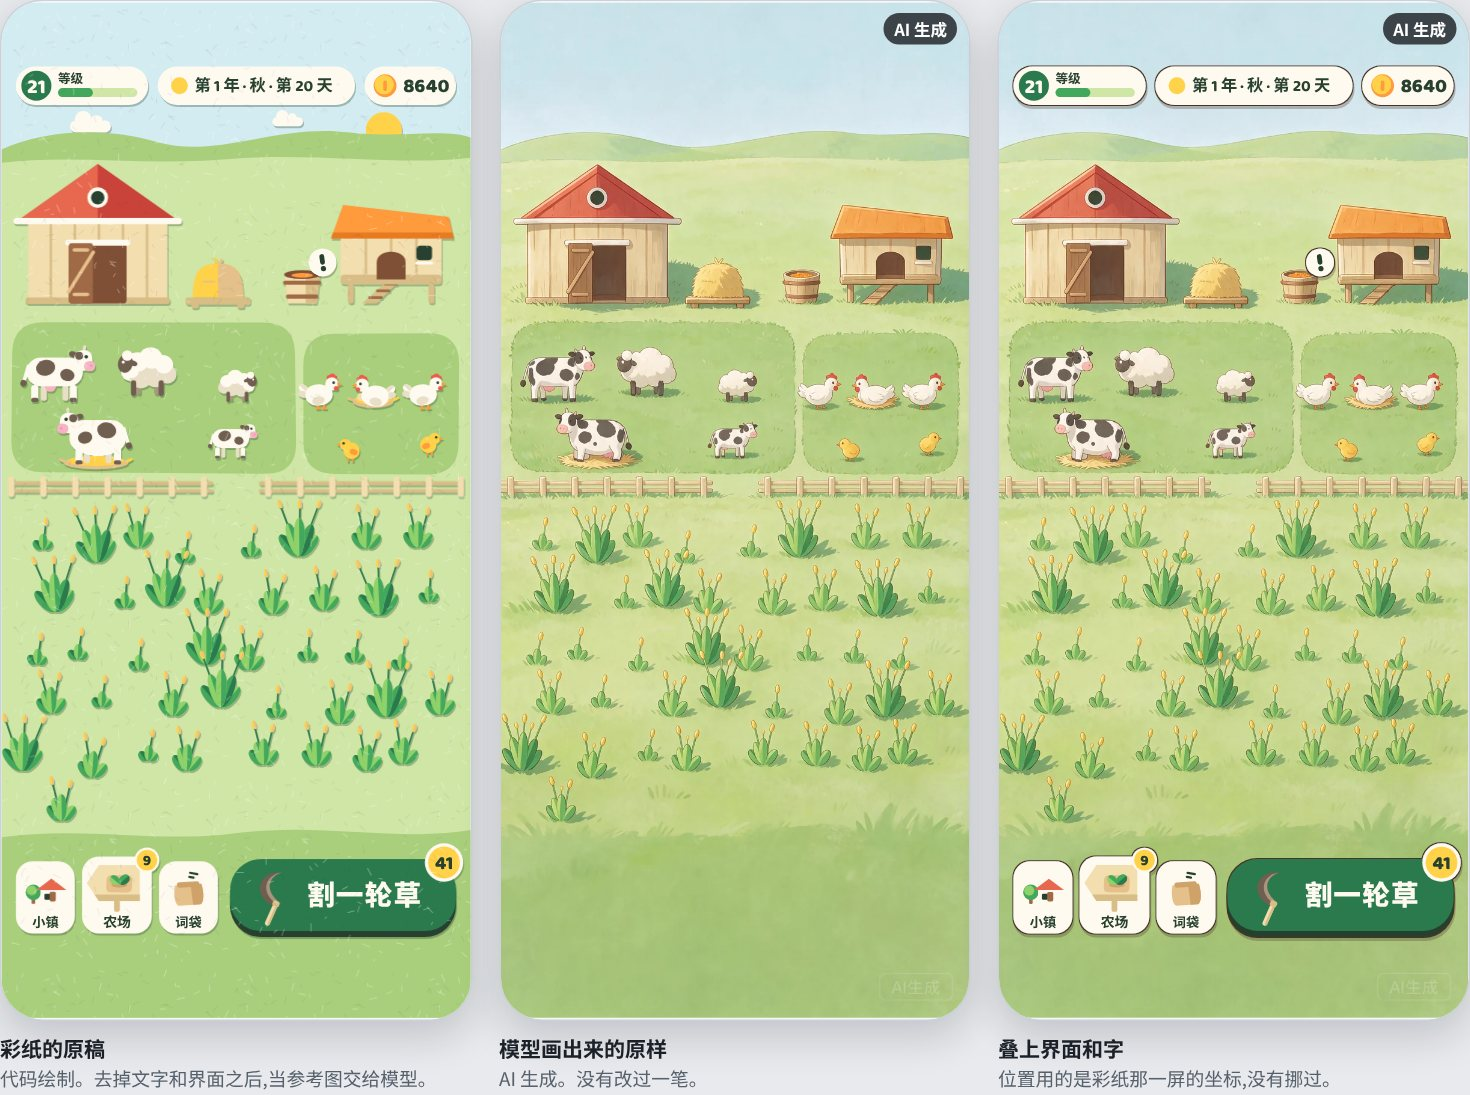
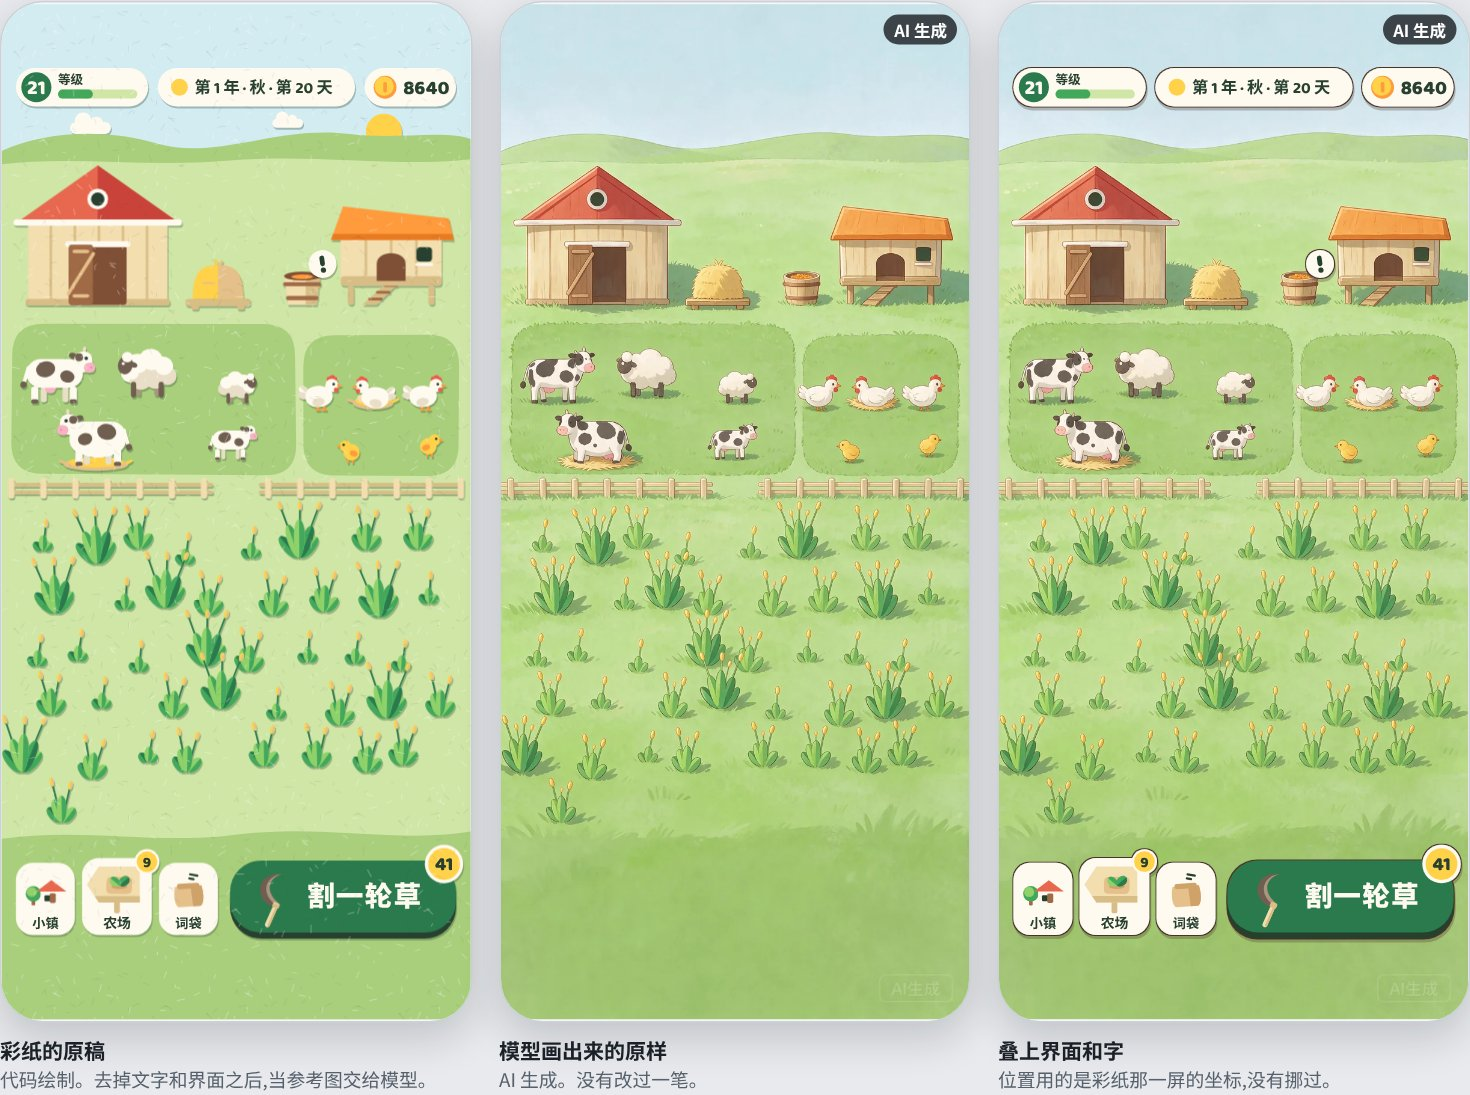
Pull the farm and pasture ground color back to the paper green
The owner found the ground on the farm and pasture still slightly
yellow next to the paper screens. Measured, the paper grass hue is 82
to 87 degrees and the redrawn one was 70 to 79.

This is corrected in place rather than by regenerating, which would
risk plot states again: regreen.py pulls only the yellowish grass
colors toward the paper hue and leaves dry soil, hay, grass ears,
wilted leaves and dark foliage alone. The ground now measures 82 to
86 degrees. The README and page tables carry the new figures.

Claude-Session: https://claude.ai/code/session_01KLGgNjxFgtRsY37w3UzLNc

diff --git a/docs/design/cel-screens/index.html b/docs/design/cel-screens/index.html
@@ -84,23 +84,26 @@
         <table class="cmp wide">
           <thead><tr><th></th><th>彩纸</th><th>第一版</th><th>现在</th></tr></thead>
           <tbody>
-            <tr><td>草地</td><td><code>#a9cf7c</code></td><td><code>#9fb756</code></td><td><code>#b8ce87</code></td></tr>
+            <tr><td>草地(底部那一条)</td><td><code>#a9cf7c</code></td><td><code>#9fb756</code></td><td><code>#adce7e</code></td></tr>
+            <tr><td>草地(地块之间)</td><td><code>#cfe6a6</code></td><td><code>#c0cd6c</code></td><td><code>#c6e09e</code></td></tr>
             <tr><td>天</td><td><code>#dfeff1</code></td><td><code>#c3e3f1</code></td><td><code>#dbebf2</code></td></tr>
             <tr><td>干土</td><td><code>#e7c18c</code></td><td><code>#e8bc79</code></td><td><code>#eac590</code></td></tr>
             <tr><td>湿土</td><td><code>#a36d4a</code></td><td><code>#7c4e31</code></td><td><code>#a5704d</code></td></tr>
             <tr><td>干土和湿土的明暗对比</td><td>2.56</td><td>3.98</td><td>2.56</td></tr>
-            <tr><td>湿土和草地的明暗对比</td><td>2.46</td><td>3.14</td><td>2.43</td></tr>
-            <tr><td>整屏的平均明度(0 到 255)</td><td>183</td><td>157</td><td>185</td></tr>
-            <tr><td>整屏明暗的起伏(标准差)</td><td>40</td><td>48</td><td>40</td></tr>
+            <tr><td>湿土和草地的明暗对比</td><td>2.46</td><td>3.14</td><td>2.37</td></tr>
+            <tr><td>整屏的平均明度(0 到 255)</td><td>183</td><td>157</td><td>183</td></tr>
+            <tr><td>整屏明暗的起伏(标准差)</td><td>40</td><td>48</td><td>39</td></tr>
           </tbody>
         </table>
       </div>
-      <p class="fine">颜色是在每张图的同一块位置取的平均值:草地取底部的一条,土取每块地左上角没有作物的一小块、按干土湿土分别平均。牧场的平均明度是彩纸 201、第一版 159、现在 195;矿洞是 170、140、157。</p>
+      <p class="fine">颜色是在每张图的同一块位置取的平均值:草地取底部的一条,土取每块地左上角没有作物的一小块、按干土湿土分别平均。牧场的平均明度是彩纸 201、第一版 159、现在 192;矿洞是 170、140、157。</p>
       <ul class="notes">
         <li><b>怎么改的:</b>在提示词里写明"色调和参考图一致,浅、亮、柔和、对比度低",并把彩纸色板里的色值一个个写进去(草地、天、干土、湿土、空地、叶子)。牧场和矿洞各重出一张就对了。</li>
         <li><b>农场出了三张,每张都有画错的地方。</b>第一张把一块湿土画成了干土,把一株没结棒的玉米画成了结了棒的;第二张整片地往下挪了,界面对不上;第三张错了三块。
           第一版(色调偏深的那张)干湿 30 块全对、作物只错了一株,现在看是碰巧。</li>
         <li><b>现在这张农场是拼的:</b>用第一张,画错的那两块地从第一版里取同一块补上(第一版先整体调了色)。页面上其余的图没有动过。</li>
+        <li><b>底色又单独调过一次。</b>负责人看过并排的图之后说农场和牧场的底色还是偏黄。量了一下:彩纸草地的色相是 82 到 87 度,重画出来的是 70 到 79 度,确实偏黄。
+          这一步没有重出图,是直接调的:只把偏黄的草地色拉向彩纸草地的色相,干土、草垛、穗、蔫了的黄叶和深绿的叶子都不在调的范围里。调完是 82 到 86 度。做法在 <code>regreen.py</code>。</li>
         <li><b>这说明两件事。</b>色调是管得住的:写进提示词就行,也可以事后整体调色。状态是管不住的:整屏重画,每次都可能错一两块。所以整屏的图只能当概念稿,真要用得一样一样出素材、一样一样核对。</li>
         <li><b>色调回到彩纸之后,</b>美术规范里的色板和明暗对比那两章又用得上了。</li>
       </ul>

diff --git a/docs/design/cel-screens/regreen.py b/docs/design/cel-screens/regreen.py
@@ -1,0 +1,27 @@
+# 只调底色:把偏黄的草地色(色相 62° 到 100° 之间、不太深不太艳的像素)拉向彩纸草地的色相(约 86°),别的颜色不动。
+# 是往一个目标色相拉,不是统一加一个角度:牧场的草地上黄下绿,统一加会把下面调过头。
+# 干土(约 35°)、草垛和穗(约 45°)、蔫了的黄叶(约 50° 到 58°)、深绿的叶子(100° 以上)都在范围之外。
+import numpy as np, sys
+from PIL import Image
+def rgb2hsv(a):
+    r,g,b=a[...,0],a[...,1],a[...,2]; mx=a.max(-1); mn=a.min(-1); d=mx-mn
+    h=np.zeros_like(mx); m=d>1e-6
+    i=m&(mx==r); h[i]=((g-b)[i]/d[i])%6
+    i=m&(mx==g)&(mx!=r); h[i]=(b-r)[i]/d[i]+2
+    i=m&(mx==b)&(mx!=r)&(mx!=g); h[i]=(r-g)[i]/d[i]+4
+    return h*60, np.where(mx>1e-6,d/np.maximum(mx,1e-6),0), mx
+def hsv2rgb(h,s,v):
+    h=(h%360)/60; i=np.floor(h).astype(int); f=h-i; p=v*(1-s); q=v*(1-s*f); t=v*(1-s*(1-f))
+    out=np.zeros(h.shape+(3,))
+    for k,(a,b,c) in enumerate([(v,t,p),(q,v,p),(p,v,t),(p,q,v),(t,p,v),(v,p,q)]):
+        m=i%6==k; out[m]=np.stack([a,b,c],-1)[m]
+    return out
+def ramp(x,a,b): return np.clip((x-a)/(b-a),0,1)
+def regreen(im, target=86.0, pull=0.85, sat=1.12):
+    a=np.asarray(im.convert('RGB')).astype(np.float64)/255; h,s,v=rgb2hsv(a)
+    w=ramp(h,60,68)*(1-ramp(h,92,102))*ramp(s,0.10,0.18)*(1-ramp(s,0.55,0.70))*ramp(v,0.50,0.62)
+    out=hsv2rgb(h+w*pull*(target-h), np.clip(s*(1+(sat-1)*w),0,1), v)
+    return Image.fromarray((np.clip(out,0,1)*255).round().astype(np.uint8)), w
+if __name__=='__main__':
+    for src,dst in [('final-farm.png','final2-farm.png'),('v2-pasture.png','final2-pasture.png')]:
+        im,w=regreen(Image.open(src)); im.save(dst); print(dst,'改动的像素占',round(float((w>0.5).mean())*100),'%')

diff --git a/docs/design/cel-screens/README.md b/docs/design/cel-screens/README.md
@@ -27,6 +27,7 @@
 | [`three-screens.jpg`](shots/three-screens.jpg) | 新画风的三屏 |
 | [`vs-paper.jpg`](shots/vs-paper.jpg)、[`vs-paper-zoom.jpg`](shots/vs-paper-zoom.jpg) | 和彩纸并排:三屏各一对(左彩纸,右现在),以及各放大一块 |
 | [`tone.jpg`](shots/tone.jpg) | 色调:第一版和现在的,三屏各一对 |
+| [`ground.jpg`](shots/ground.jpg) | 底色:农场和牧场各三张,彩纸、调之前、调之后(只有场景,没有界面) |
 | [`farm.jpg`](shots/farm.jpg)、[`pasture.jpg`](shots/pasture.jpg)、[`mine.jpg`](shots/mine.jpg) | 每一屏的三联:彩纸的原稿、模型画出来的原样、叠上界面之后 |
 | [`small.jpg`](shots/small.jpg) | 农场缩到每块地约 28pt,彩纸和新画风(截图放大了 3 倍) |
 | [`phone-farm.jpg`](shots/phone-farm.jpg) | 手机宽度下的农场一屏 |
@@ -56,22 +57,26 @@
 
 | | 彩纸 | 第一版 | 现在 |
 |---|---|---|---|
-| 草地 | `#a9cf7c` | `#9fb756` | `#b8ce87` |
+| 草地(底部那一条) | `#a9cf7c` | `#9fb756` | `#adce7e` |
+| 草地(地块之间) | `#cfe6a6` | `#c0cd6c` | `#c6e09e` |
 | 天 | `#dfeff1` | `#c3e3f1` | `#dbebf2` |
 | 干土 | `#e7c18c` | `#e8bc79` | `#eac590` |
 | 湿土 | `#a36d4a` | `#7c4e31` | `#a5704d` |
 | 干土和湿土的明暗对比 | 2.56 | 3.98 | 2.56 |
-| 湿土和草地的明暗对比 | 2.46 | 3.14 | 2.43 |
-| 整屏的平均明度(0 到 255) | 183 | 157 | 185 |
-| 整屏明暗的起伏(标准差) | 40 | 48 | 40 |
+| 湿土和草地的明暗对比 | 2.46 | 3.14 | 2.37 |
+| 整屏的平均明度(0 到 255) | 183 | 157 | 183 |
+| 整屏明暗的起伏(标准差) | 40 | 48 | 39 |
 
 颜色是在每张图的同一块位置取的平均值:草地取底部的一条,土取每块地左上角没有作物的一小块、按干土湿土分别平均。
-牧场的平均明度是彩纸 201、第一版 159、现在 195;矿洞是 170、140、157(矿洞还比彩纸暗一点)。
+牧场的平均明度是彩纸 201、第一版 159、现在 192;矿洞是 170、140、157(矿洞还比彩纸暗一点)。
 
 - **怎么改的:** 提示词里写明"色调和参考图一致,浅、亮、柔和、对比度低",并把彩纸色板里的色值一个个写进去。牧场和矿洞各重出一张就对了。
 - **农场出了三张,每张都有画错的地方。** 第一张把一块湿土画成了干土,把一株没结棒的玉米画成了结了棒的;第二张整片地往下挪了,界面对不上;第三张错了三块。
   第一版(色调偏深的那张)干湿 30 块全对、作物只错一株,现在看是碰巧。
 - **现在这张农场是拼的:** 用第一张,画错的那两块地从第一版里取同一块补上(第一版先整体调了色:拿两张图对应位置的颜色拟合一个整体的颜色换算)。其余的图没有动过。
+- **底色又单独调过一次。** 负责人看过和彩纸并排的图之后说:"农场和牧场的底色还是偏黄一点"。量出来彩纸草地的色相是 82 到 87 度,重画出来的是 70 到 79 度。
+  这一步没有重出图,是直接调的([`regreen.py`](regreen.py)):只把偏黄的草地色拉向彩纸草地的色相(约 86 度),干土、草垛、穗、蔫了的黄叶和深绿的叶子都不在调的范围里。调完是 82 到 86 度。
+  见 [`ground.jpg`](shots/ground.jpg):农场和牧场各三张,彩纸、调之前、调之后。
 - **这说明两件事。** 色调管得住:写进提示词就行,也可以事后整体调色。状态管不住:整屏重画,每次都可能错一两块。
 - **色调回到彩纸之后,**[美术规范](../07-art-direction.md)里的色板和明暗对比那两章又用得上了。
 
@@ -176,6 +181,7 @@
 | `index.html`、`index.js`、`cel-screens.css` | 画面页 |
 | `cel-screens.js` | 把场景和界面拼成一屏:哪些字、哪些标记叠在哪里 |
 | `source.html` | 把彩纸的画面去掉文字和界面,渲染成参考图。地址后面加 `?s=farm`、`?s=pasture`、`?s=mine` |
+| `regreen.py` | 出图之后调底色用的:只把偏黄的草地色拉向彩纸草地的色相。要装 Pillow 和 NumPy |
 | `generated/` | AI 生成的三张场景、一张素材、第一版的三张(`*-v1.webp`),和 `manifest.json` |
 | `shots/` | 截图 |
 
